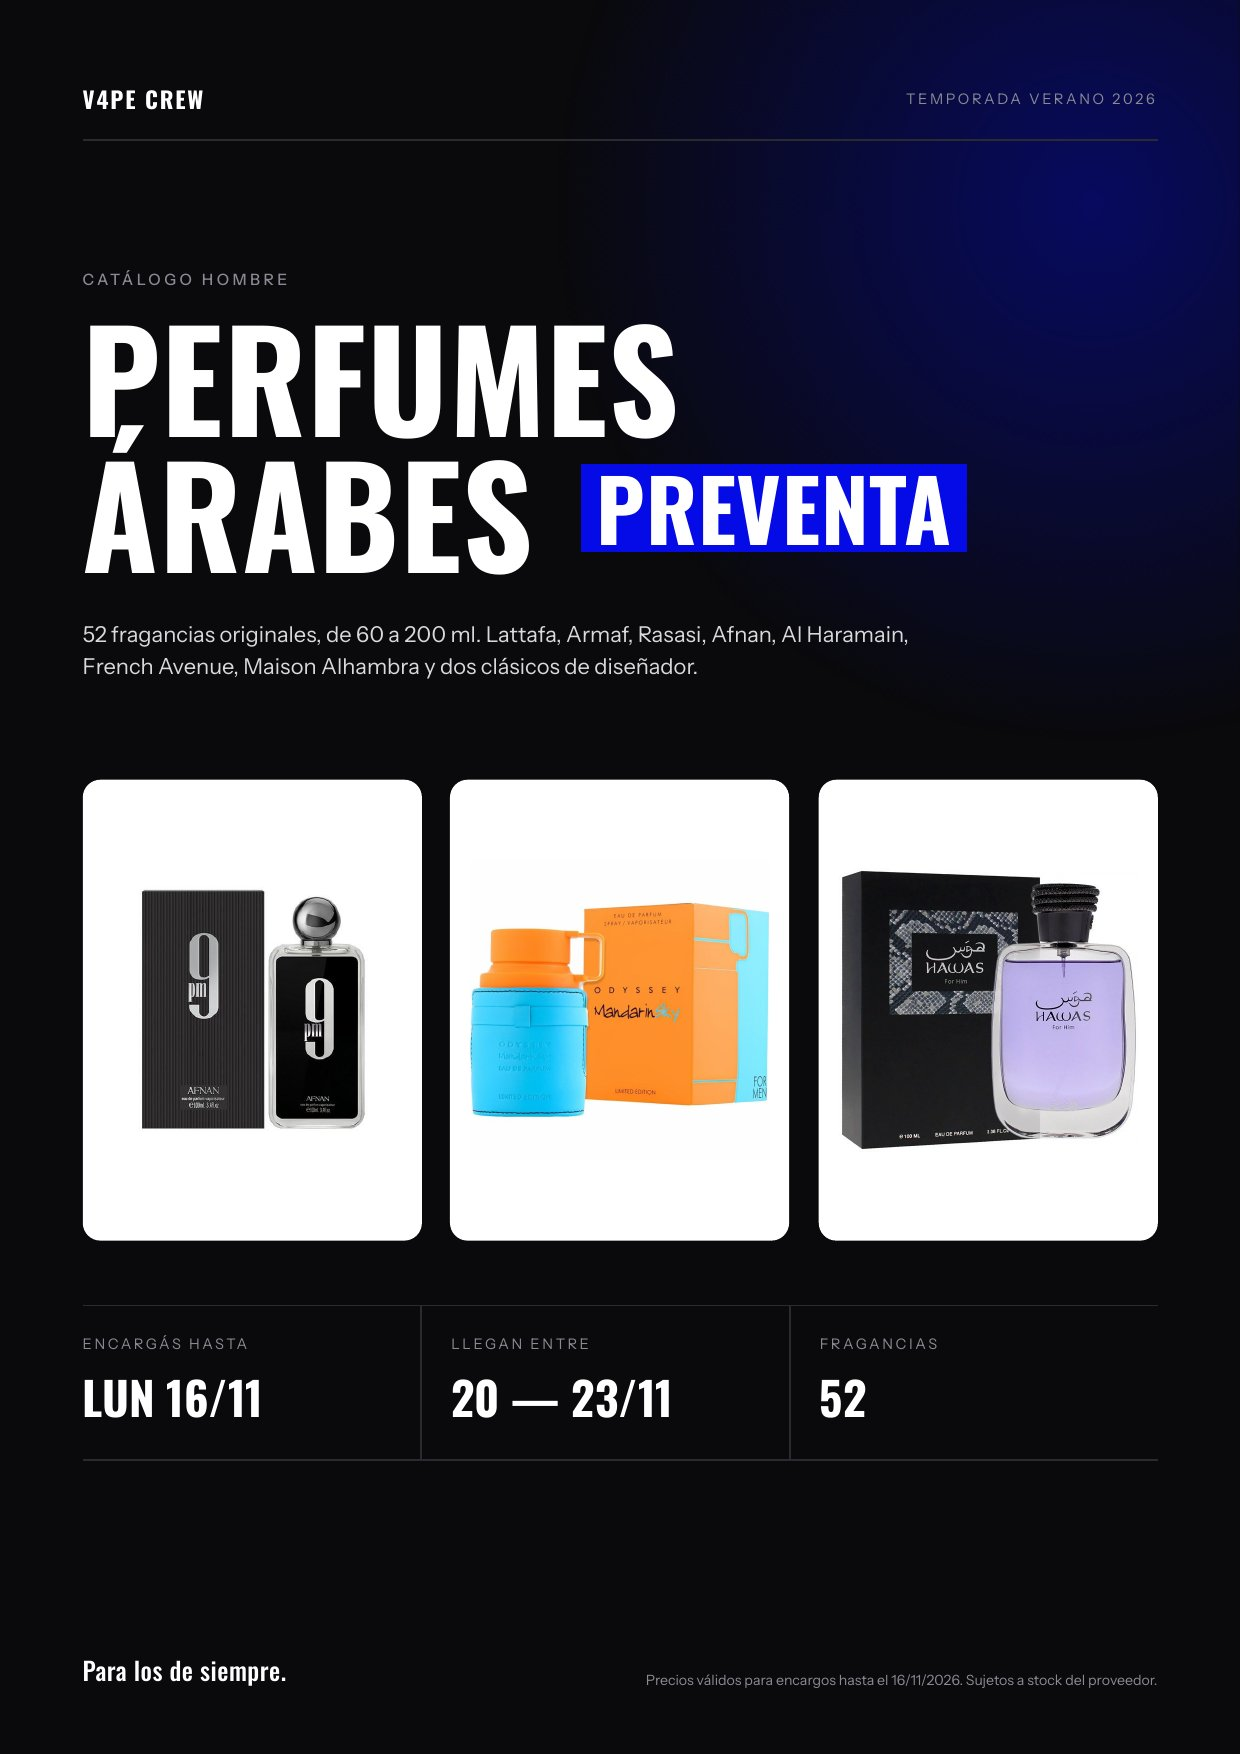
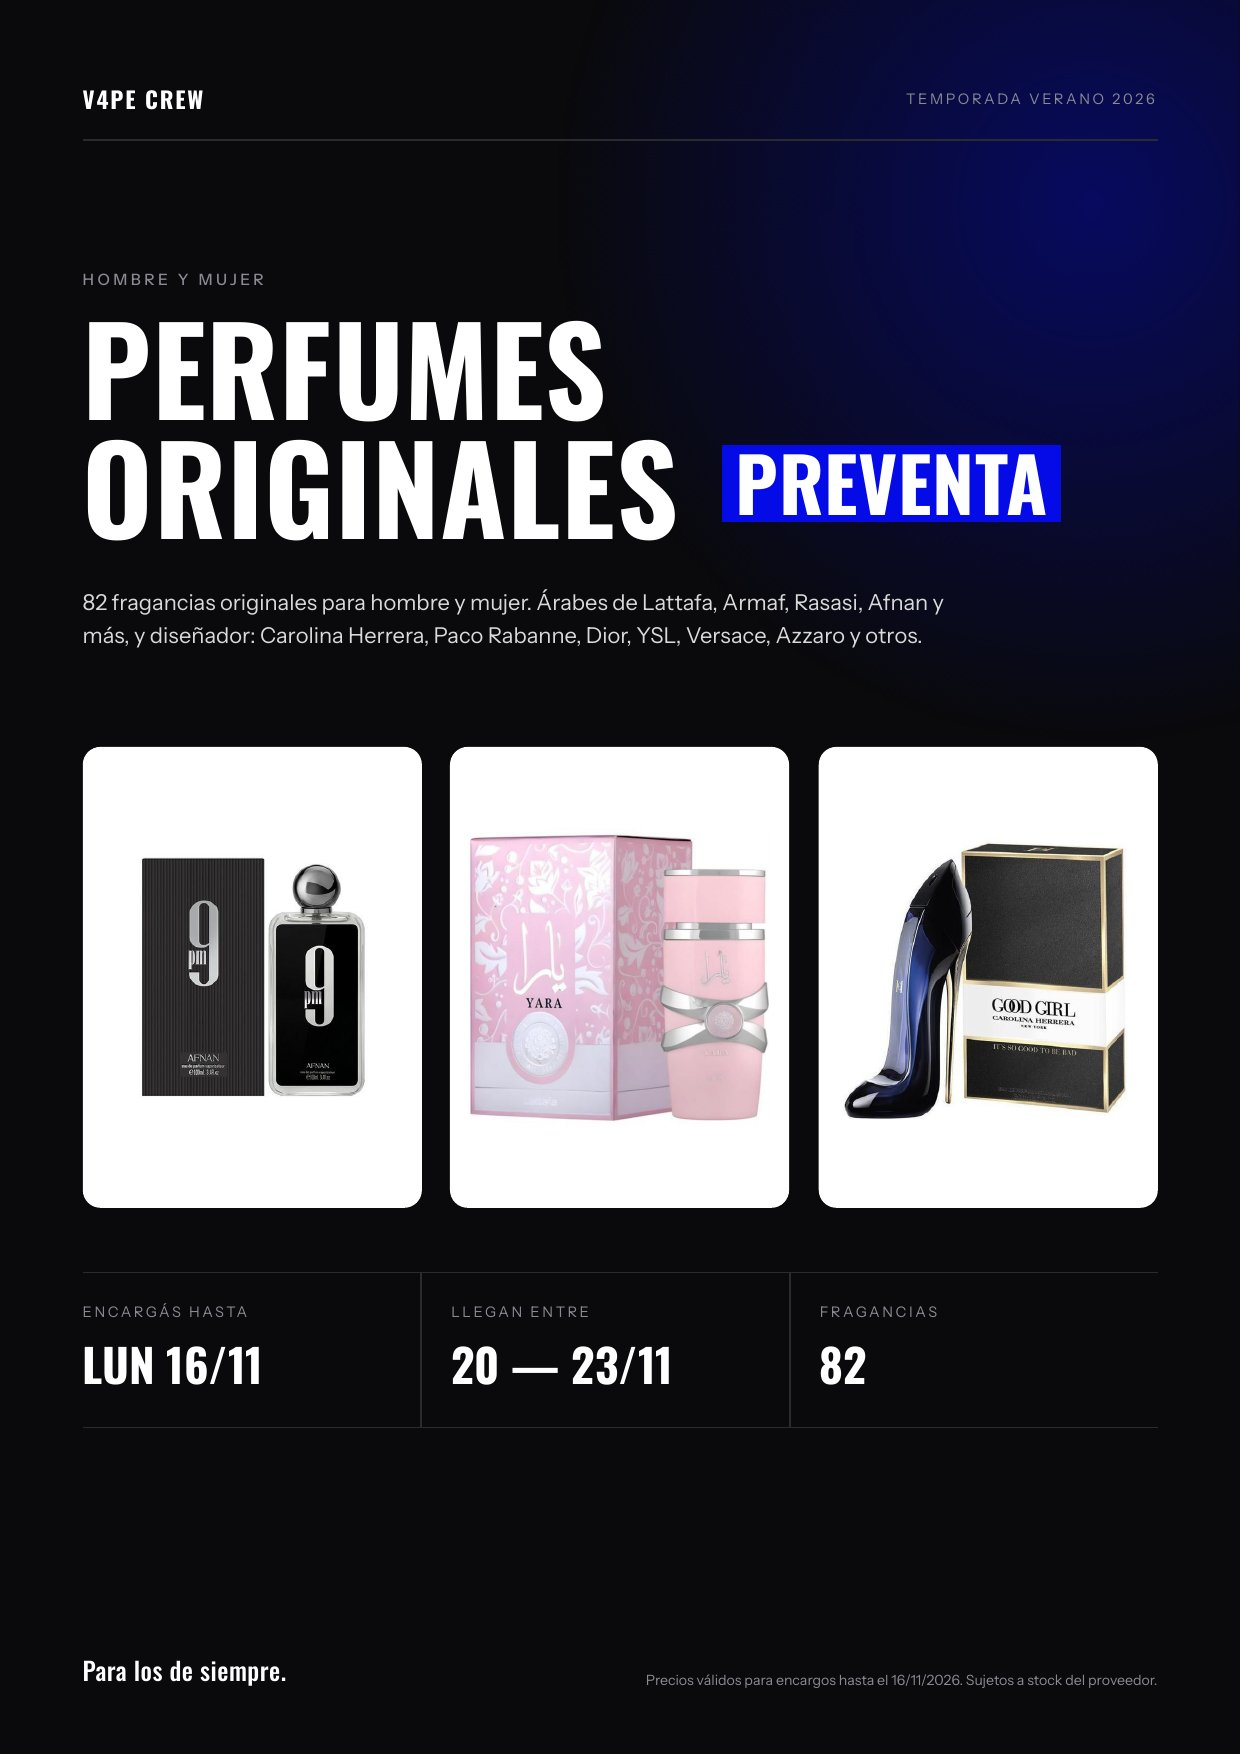
Suma mujer y diseñador al catálogo de preventa de perfumes
Claude-Session: https://claude.ai/code/session_01VCGDBE2mcbvhA4ncU3sF3q

diff --git a/preventa-perfumes/index.html b/preventa-perfumes/index.html
@@ -11,19 +11,22 @@ img{width:100%;height:auto;display:block;border-radius:6px;-webkit-user-drag:non
 .wa{position:fixed;left:50%;transform:translateX(-50%);bottom:18px;display:flex;align-items:center;gap:10px;background:#040BE7;color:#fff;text-decoration:none;font-family:Oswald,Impact,sans-serif;font-weight:700;letter-spacing:.06em;font-size:17px;padding:14px 26px;border-radius:40px;box-shadow:0 8px 30px rgba(4,11,231,.45);white-space:nowrap}
 .wa svg{width:22px;height:22px;fill:#fff}
 </style></head><body><main>
-<img src="p-01.jpg" alt="Catálogo preventa perfumes, página 01" loading="eager" oncontextmenu="return false">
-<img src="p-02.jpg" alt="Catálogo preventa perfumes, página 02" loading="lazy" oncontextmenu="return false">
-<img src="p-03.jpg" alt="Catálogo preventa perfumes, página 03" loading="lazy" oncontextmenu="return false">
-<img src="p-04.jpg" alt="Catálogo preventa perfumes, página 04" loading="lazy" oncontextmenu="return false">
-<img src="p-05.jpg" alt="Catálogo preventa perfumes, página 05" loading="lazy" oncontextmenu="return false">
-<img src="p-06.jpg" alt="Catálogo preventa perfumes, página 06" loading="lazy" oncontextmenu="return false">
-<img src="p-07.jpg" alt="Catálogo preventa perfumes, página 07" loading="lazy" oncontextmenu="return false">
-<img src="p-08.jpg" alt="Catálogo preventa perfumes, página 08" loading="lazy" oncontextmenu="return false">
-<img src="p-09.jpg" alt="Catálogo preventa perfumes, página 09" loading="lazy" oncontextmenu="return false">
+<img src="p-01.jpg" alt="Catálogo preventa perfumes, página 1" loading="eager" oncontextmenu="return false">
+<img src="p-02.jpg" alt="Catálogo preventa perfumes, página 2" loading="lazy" oncontextmenu="return false">
+<img src="p-03.jpg" alt="Catálogo preventa perfumes, página 3" loading="lazy" oncontextmenu="return false">
+<img src="p-04.jpg" alt="Catálogo preventa perfumes, página 4" loading="lazy" oncontextmenu="return false">
+<img src="p-05.jpg" alt="Catálogo preventa perfumes, página 5" loading="lazy" oncontextmenu="return false">
+<img src="p-06.jpg" alt="Catálogo preventa perfumes, página 6" loading="lazy" oncontextmenu="return false">
+<img src="p-07.jpg" alt="Catálogo preventa perfumes, página 7" loading="lazy" oncontextmenu="return false">
+<img src="p-08.jpg" alt="Catálogo preventa perfumes, página 8" loading="lazy" oncontextmenu="return false">
+<img src="p-09.jpg" alt="Catálogo preventa perfumes, página 9" loading="lazy" oncontextmenu="return false">
 <img src="p-10.jpg" alt="Catálogo preventa perfumes, página 10" loading="lazy" oncontextmenu="return false">
 <img src="p-11.jpg" alt="Catálogo preventa perfumes, página 11" loading="lazy" oncontextmenu="return false">
 <img src="p-12.jpg" alt="Catálogo preventa perfumes, página 12" loading="lazy" oncontextmenu="return false">
 <img src="p-13.jpg" alt="Catálogo preventa perfumes, página 13" loading="lazy" oncontextmenu="return false">
+<img src="p-14.jpg" alt="Catálogo preventa perfumes, página 14" loading="lazy" oncontextmenu="return false">
+<img src="p-15.jpg" alt="Catálogo preventa perfumes, página 15" loading="lazy" oncontextmenu="return false">
+<img src="p-16.jpg" alt="Catálogo preventa perfumes, página 16" loading="lazy" oncontextmenu="return false">
 </main>
 <a class="wa" id="wa" href="#" target="_blank" rel="noopener">
 <svg viewBox="0 0 24 24"><path d="M12 2a10 10 0 0 0-8.6 15.1L2 22l5-1.3A10 10 0 1 0 12 2zm0 18.2a8.2 8.2 0 0 1-4.2-1.1l-.3-.2-3 .8.8-2.9-.2-.3A8.2 8.2 0 1 1 12 20.2zm4.5-6.1c-.2-.1-1.5-.7-1.7-.8-.2-.1-.4-.1-.6.1l-.8 1c-.1.2-.3.2-.5.1a6.7 6.7 0 0 1-3.3-2.9c-.3-.4.2-.4.7-1.4.1-.2 0-.3 0-.4l-.8-1.8c-.2-.5-.4-.4-.6-.4h-.5a1 1 0 0 0-.7.3 3 3 0 0 0-.9 2.2 5.2 5.2 0 0 0 1.1 2.8 11.9 11.9 0 0 0 4.6 4c1.7.7 2.4.8 3.2.7a2.8 2.8 0 0 0 1.9-1.3 2.3 2.3 0 0 0 .2-1.3c-.1-.1-.3-.2-.5-.3z"/></svg>
